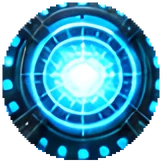
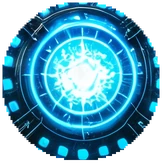
Szene „Mystic Aurora“: Grundbild aus Magnific Kreativ 4x (Wahl Auftraggeber nach Vorher/Nachher-Vergleich), Aurora- und Wasser-Leuchtebene aus dem Grundbild gewonnen

diff --git a/scripts/grafik-v5-aufbereiten.py b/scripts/grafik-v5-aufbereiten.py
@@ -86,10 +86,17 @@ def ebene(name, bild):
     if not box: return
     k.crop(box).save(ZIEL + name + '.webp', quality=90, method=6, lossless=False)
     ebenen[name] = {'x': box[0], 'y': box[1], 'b': box[2] - box[0], 'h': box[3] - box[1]}
-aura = Image.open(Q + '01_BACKGROUND/AURORA_ORIGINAL_FARBANTEILE.png').convert('RGBA')
-voll = Image.new('RGBA', (11520, 2160)); voll.alpha_composite(aura, (91, 0)); ebene('aurora', voll)
+def ausGrund(name, maske):
+    """Leucht-Ebene aus dem (hochskalierten) Grundbild selbst – passt so immer genau, auch nach Magnific"""
+    a = cv2.GaussianBlur(np.clip(maske, 0, 1).astype(np.float32), (0, 0), 2)
+    bild = Image.fromarray(grund).convert('RGBA'); bild.putalpha(Image.fromarray((a * 255).astype(np.uint8))); ebene(name, bild)
+gf = grund.astype(np.float32)
+gruen = gf[..., 1] - np.maximum(gf[..., 0], gf[..., 2] * 0.85)  # Aurora: deutlich grüner als rot/blau
+ausGrund('aurora', (gruen - 12) / 50)
+yy = np.mgrid[0:H, 0:B][0]
+hell = (gf.max(axis=2) - 90) / 90  # Wasser: helle Glanzpunkte im See (unterhalb des Horizonts, mittlerer Bildschirm)
+ausGrund('wasser', hell * (yy > 835) * (np.abs(np.mgrid[0:H, 0:B][1] - 2880) < 1000))
 ebene('halo', monitore([None, FX + 'REACTOR_CORE_HALO_PULSE_RGBA_3840x2160.png', None]))
-ebene('wasser', monitore([None, A + 'MITTE_WASSERWELLEN_MITTE_3840x2160.png', None]))
 # Reaktor-Kern scharf aus dem Grundbild, Form aus der Kern-Maske (für das Pulsieren)
 kern = monitore([None, A + 'MITTE_REAKTOR_RING_01_ORIGINAL_PIXELS_3840x2160.png', None]).resize((B, H), Image.LANCZOS)
 kernScharf = Image.fromarray(grund).convert('RGBA'); kernScharf.putalpha(kern.getchannel('A')); ebene('kern', kernScharf)

diff --git a/recherche/grafik-v5-bestand-2026-11-05.md b/recherche/grafik-v5-bestand-2026-11-05.md
@@ -80,3 +80,11 @@ Quelle: `Downloads\LOKI_Mystic_Aurora_3x4K_Animationsassets_V5.zip` (Kopie in `H
 3. Als neues Wallpaper in Wallpaper Engine einrichten (altes bleibt als Sicherung).
 4. Intro auf derselben Szene, endet bildgleich mit dem Wallpaper.
 5. FENECON + Ecowitt nach Angabe von Modell/Adressen.
+
+## Schärfe (05.11.2026)
+- Vergleich (grafik/magnific/vergleich_*.png): geliefert · lokal Real-ESRGAN · Magnific Präzision 4x · Magnific Kreativ 4x
+  (ArtAndIllustration, Illusio, Kreativität −3, Ähnlichkeit 5, je 450 Credits, über die Magnific-Verbindung).
+- **Wahl Auftraggeber: Magnific Kreativ.** Datei `grafik/magnific/magnific_kreativ_4x.png` (nicht in Git);
+  Neuaufbau: `modelle/upscale/.venv/Scripts/python.exe scripts/grafik-v5-aufbereiten.py grafik/magnific/magnific_kreativ_4x.png`.
+- Aurora- und Wasser-Leuchtebene werden aus dem Grundbild selbst gewonnen (passt nach jeder Hochskalierung).
+- Runen: Gekritzel in den Bögen und im Ring um den Reaktor durch echte Runen ersetzt (hud5/runen.js), Reaktor-Runen unverändert.
